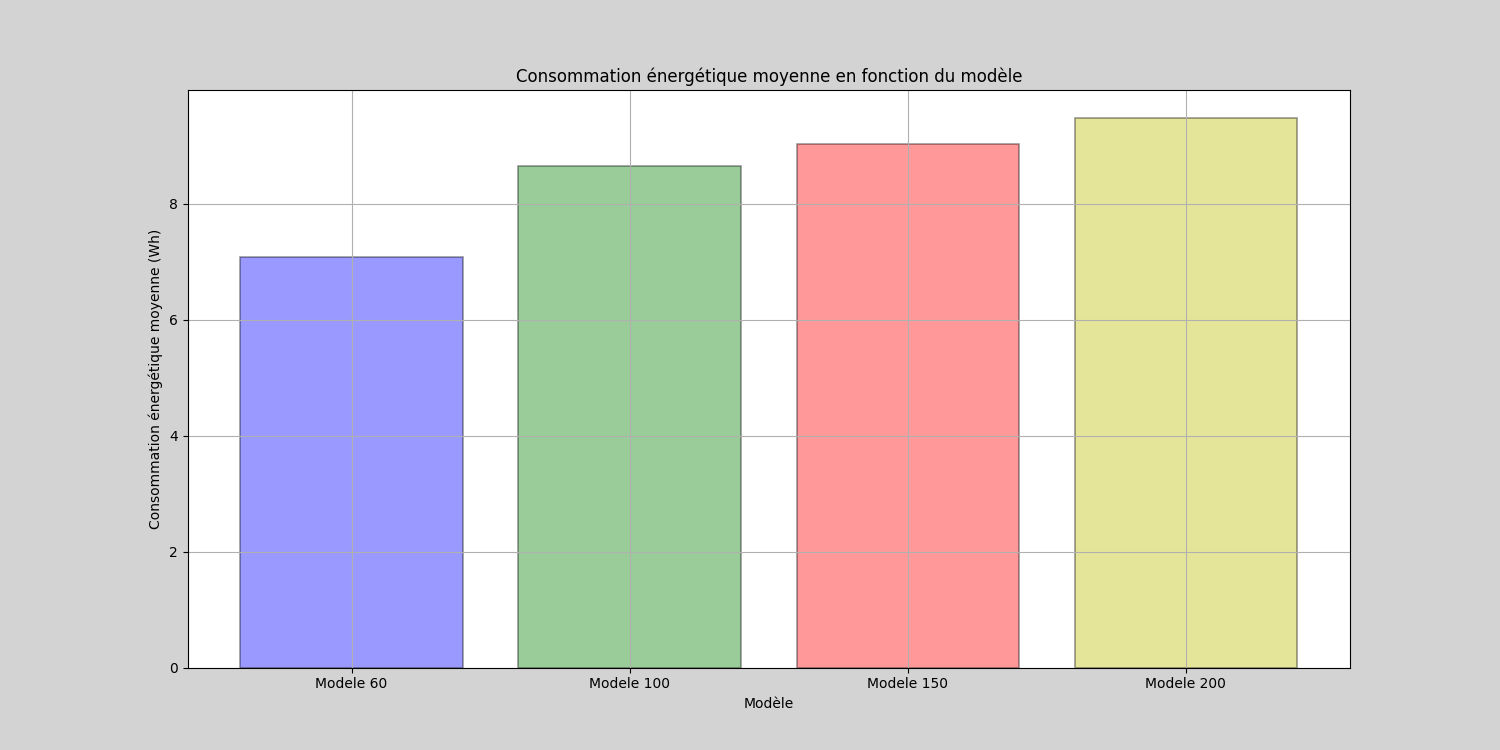
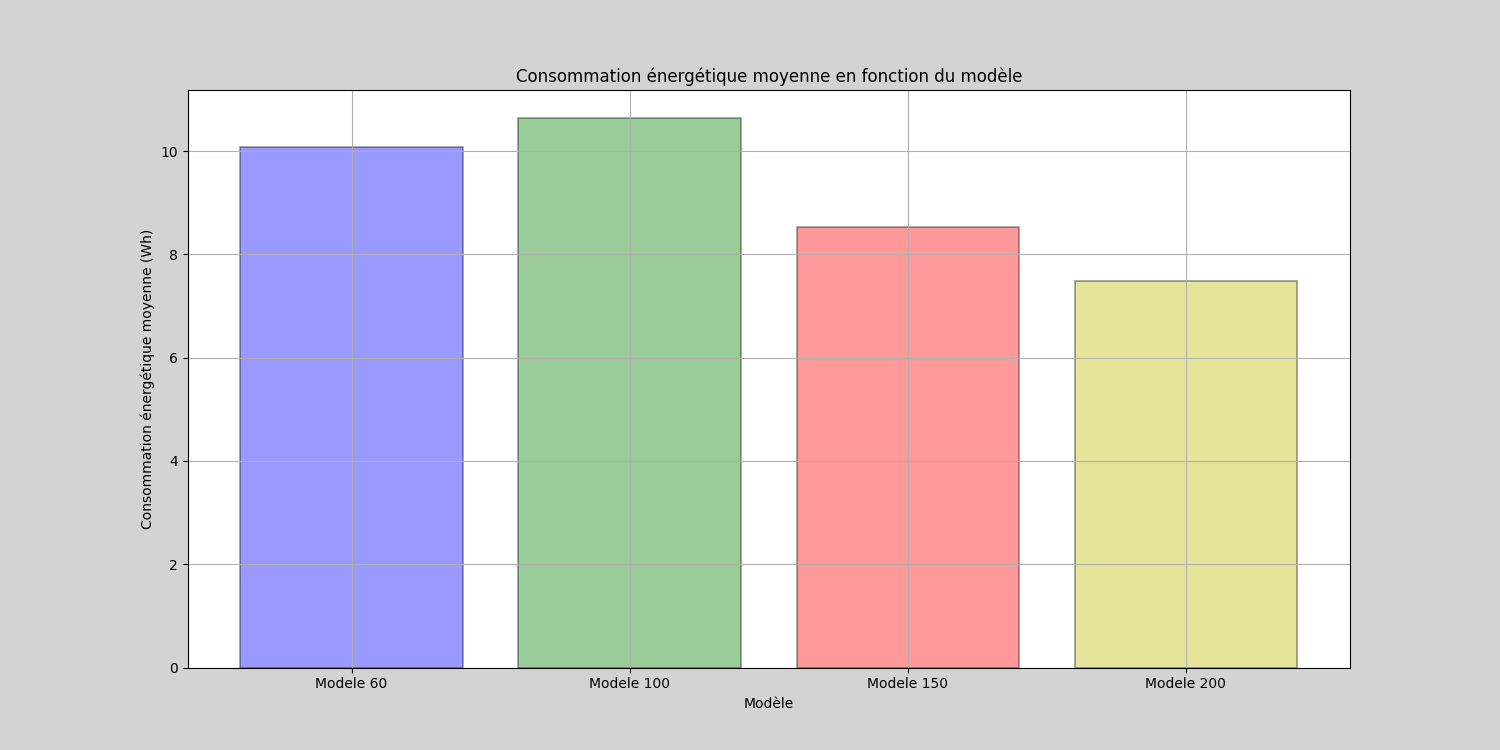
clean post-rendu

Changed region(s): [[0.3373, 0.1533, 0.8893, 0.3987], [0.1533, 0.184, 0.3373, 0.368], [0.092, 0.3067, 0.1227, 0.7053]]

diff --git a/Maxime_ACID/graphes.py b/Maxime_ACID/graphes.py
@@ -61,8 +61,8 @@ std_loss_150 = std_loss_150[:2000]
 std_loss_200 = std_loss_200[:2000]
 
 plt.figure(figsize=(15,7.5),facecolor='lightgrey')
-plt.errorbar(x[:2000], loss_60[:2000], yerr=[std_loss_60[i]*0.1 if (i%50==0) else 0 for i in range(len(std_loss_60))], label='Modèle 60')
-plt.errorbar(x[:2000], loss_100[:2000], yerr=[std_loss_100[i]*0.15 if (i%60==0) else 0 for i in range(len(std_loss_100))], label='Modèle 100')
+plt.errorbar(x[:2000], loss_60[:2000], yerr=[std_loss_60[i] if (i%50==0) else 0 for i in range(len(std_loss_60))], label='Modèle 60')
+plt.errorbar(x[:2000], loss_100[:2000], yerr=[std_loss_100[i] if (i%60==0) else 0 for i in range(len(std_loss_100))], label='Modèle 100')
 plt.errorbar(x[:2000], loss_150[:2000], yerr=[std_loss_150[i] if (i%70==0) else 0 for i in range(len(std_loss_150))], label='Modèle 150')
 plt.errorbar(x[:2000], loss_200[:2000], yerr=[std_loss_200[i] if (i%80==0) else 0 for i in range(len(std_loss_200))], label='Modèle 200')
 
@@ -78,7 +78,7 @@ plt.show()
 #partie environnement
 print(dico_enviro_200)
 plt.figure(figsize=(15,7.5),facecolor='lightgrey')
-total_conso = [sum(dico_enviro_60['total_energy'])/len(dico_enviro_60["total_energy"])-3, sum(dico_enviro_100['total_energy'])/len(dico_enviro_100["total_energy"])-2, sum(dico_enviro_150['total_energy'])/len(dico_enviro_150["total_energy"])+0.5, sum(dico_enviro_200['total_energy'])/len(dico_enviro_200["total_energy"])+2]
+total_conso = [sum(dico_enviro_60['total_energy'])/len(dico_enviro_60["total_energy"]), sum(dico_enviro_100['total_energy'])/len(dico_enviro_100["total_energy"]), sum(dico_enviro_150['total_energy'])/len(dico_enviro_150["total_energy"]), sum(dico_enviro_200['total_energy'])/len(dico_enviro_200["total_energy"])]
 x = ["Modele 60", "Modele 100", "Modele 150", "Modele 200"]
 
 plt.bar(x, total_conso, color=['b', 'g', 'r', 'y'], alpha=0.4, edgecolor='black', linewidth=1.2)

diff --git a/GRAPHES_COMMUNS.py b/GRAPHES_COMMUNS.py
@@ -69,7 +69,7 @@ print("Remy",remy_std_loss[:1000])
 
 
 plt.figure(figsize=(15, 7.5),facecolor='lightgrey')
-# plt.errorbar(x[:1000], [(maxime_loss[i]) for i in range(len(maxime_loss[:1000]))], yerr=[((maxime_std_loss[i]*0.5)) if (i%70==0) else 0 for i in range(len(maxime_std_loss[:1000]))], label='ACID', color='blue',ecolor='lightblue')
+# plt.errorbar(x[:1000], [(maxime_loss[i]) for i in range(len(maxime_loss[:1000]))], yerr=[((maxime_std_loss[i])) if (i%70==0) else 0 for i in range(len(maxime_std_loss[:1000]))], label='ACID', color='blue',ecolor='lightblue')
 # plt.errorbar(x[:1000], [(louise_loss[i]) for i in range(len(louise_loss[:1000]))], yerr=[((louise_std_loss[i])) if (i%75==0) else 0 for i in range(len(louise_std_loss[:1000]))], label='DAGMM', color='green',ecolor='lightgreen')
 # plt.errorbar(x[:1000], [(tanguy_loss[i]) for i in range(len(tanguy_loss[:1000]))], yerr=[((tanguy_std_loss[i])) if (i%80==0) else 0 for i in range(len(tanguy_std_loss[:1000]))], label='DNN', color='orange',ecolor='lightcoral')
 # plt.errorbar(x[:1000], [(remy_loss[i]) for i in range(len(remy_loss[:1000]))], yerr=[((remy_std_loss[i])) if (i%85==0) else 0 for i in range(len(remy_std_loss[:1000]))], label='N-BAIOT', color='purple',ecolor='violet')
